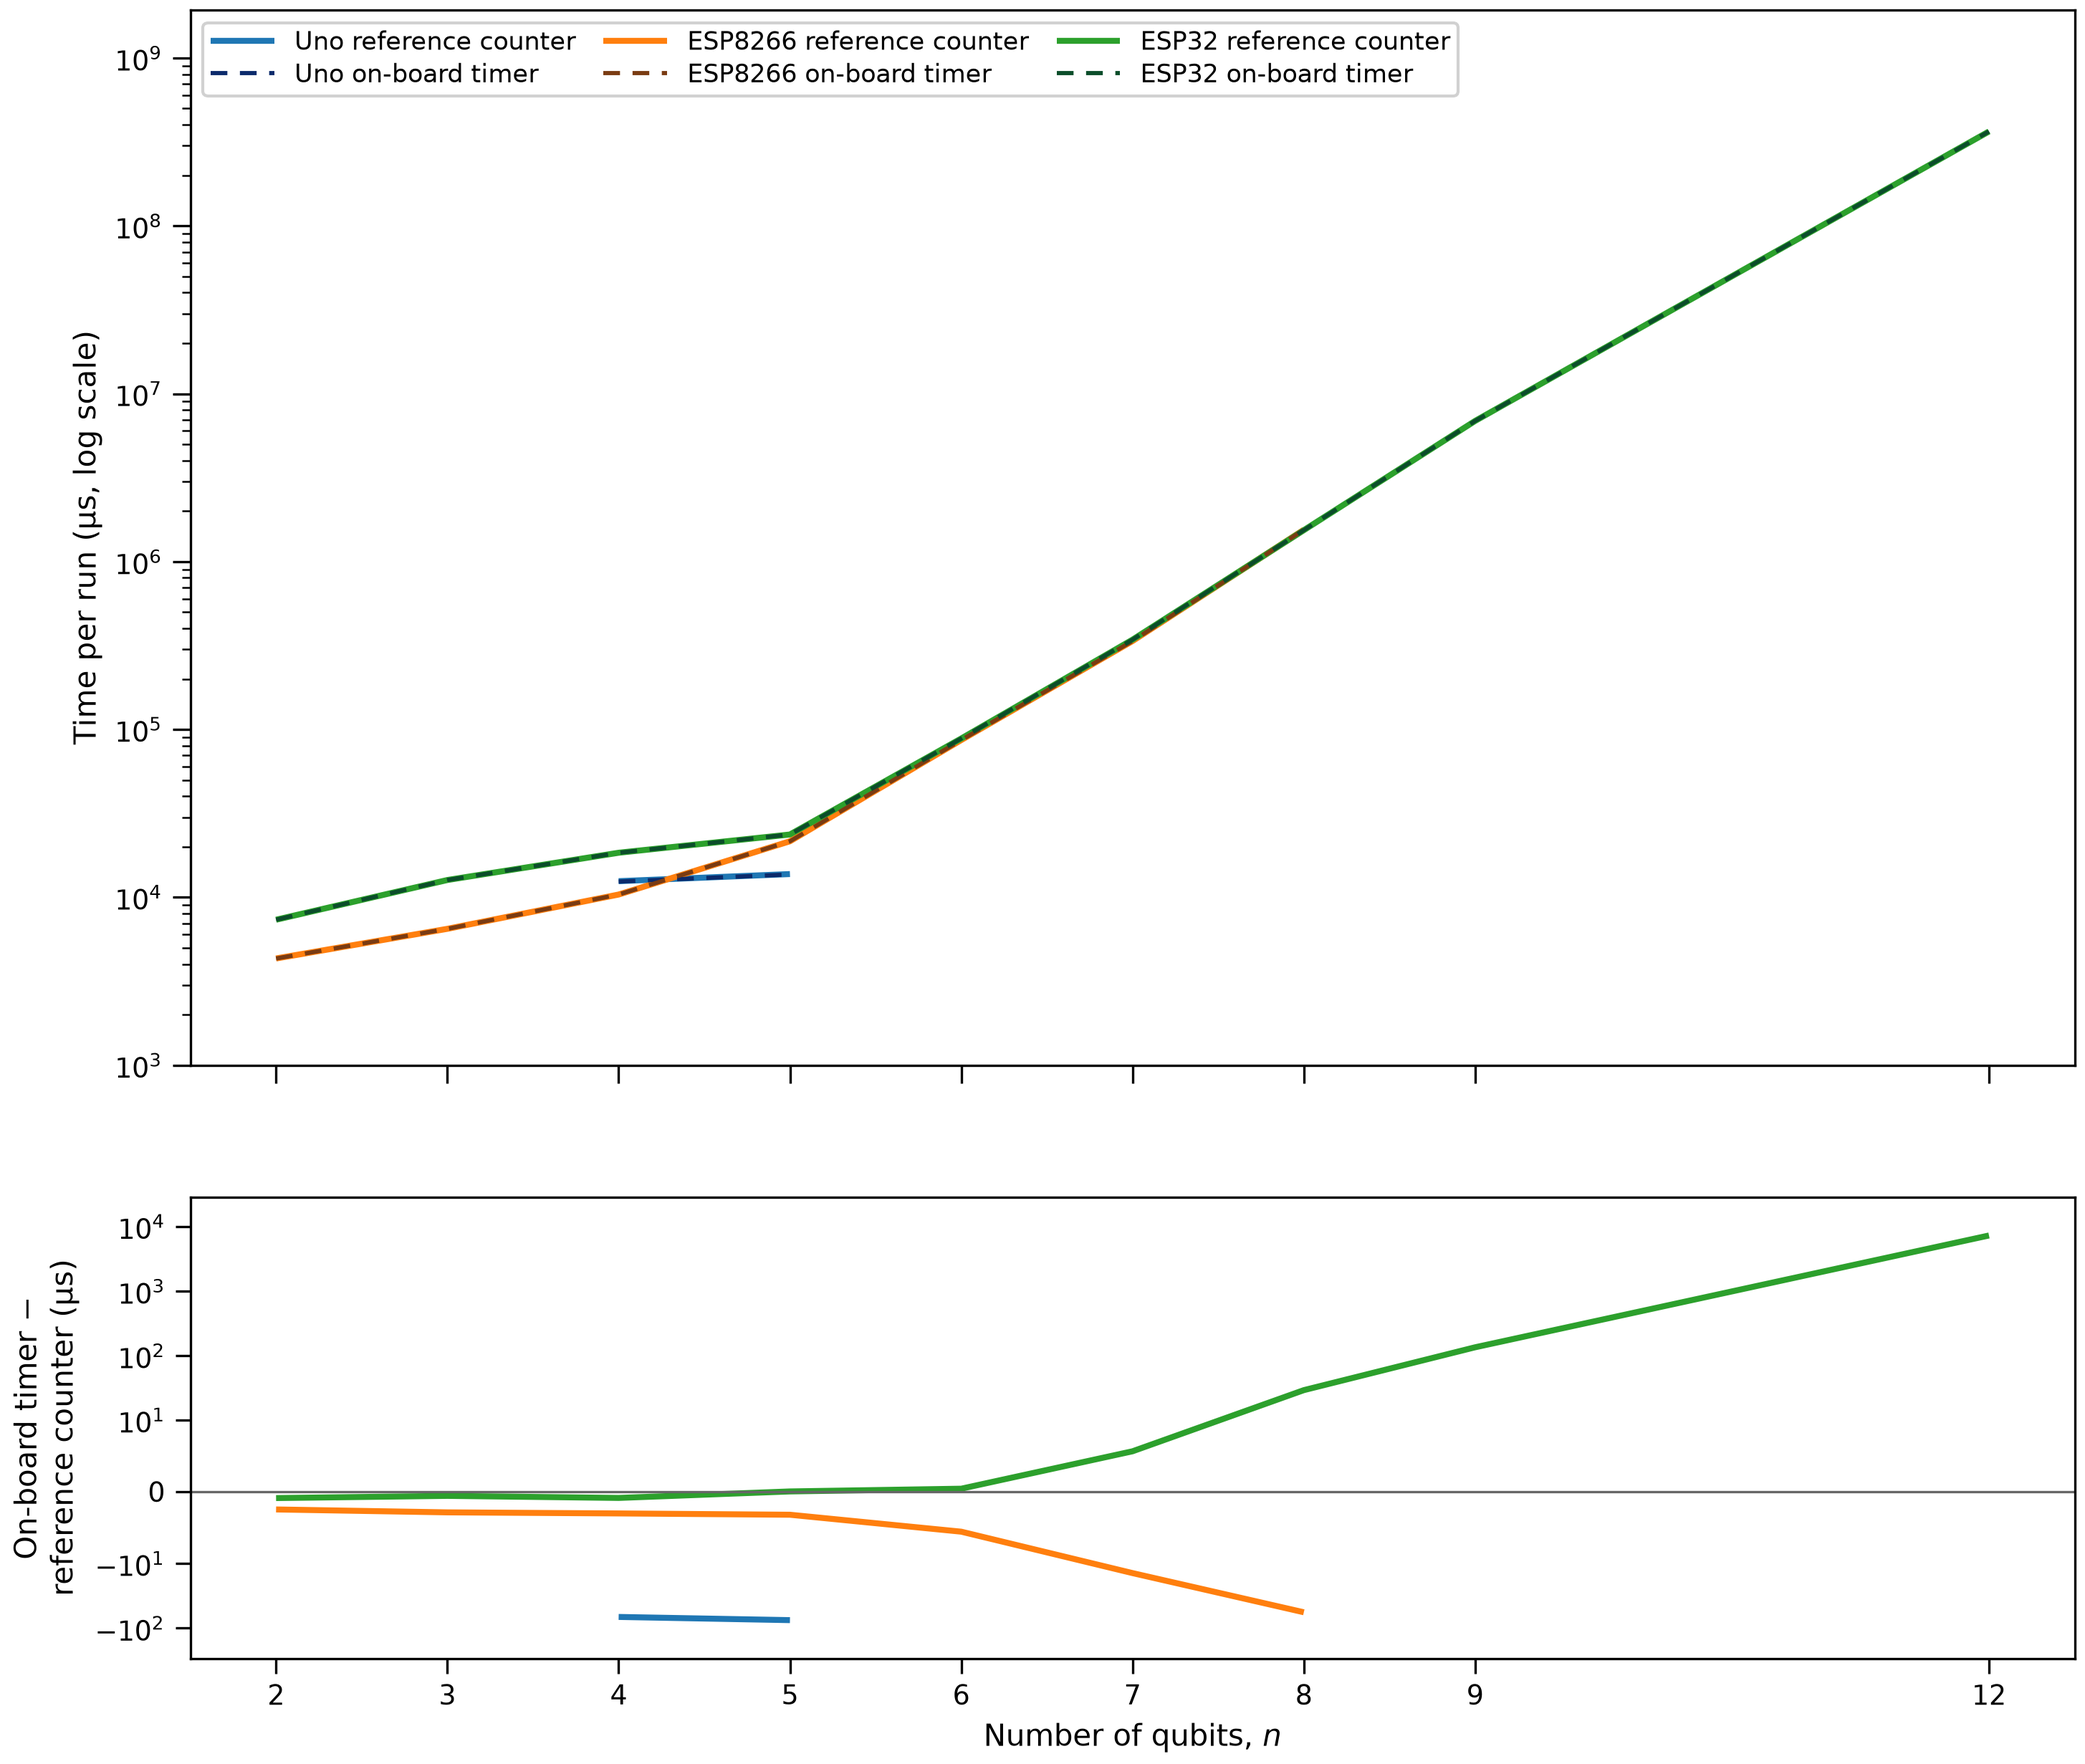
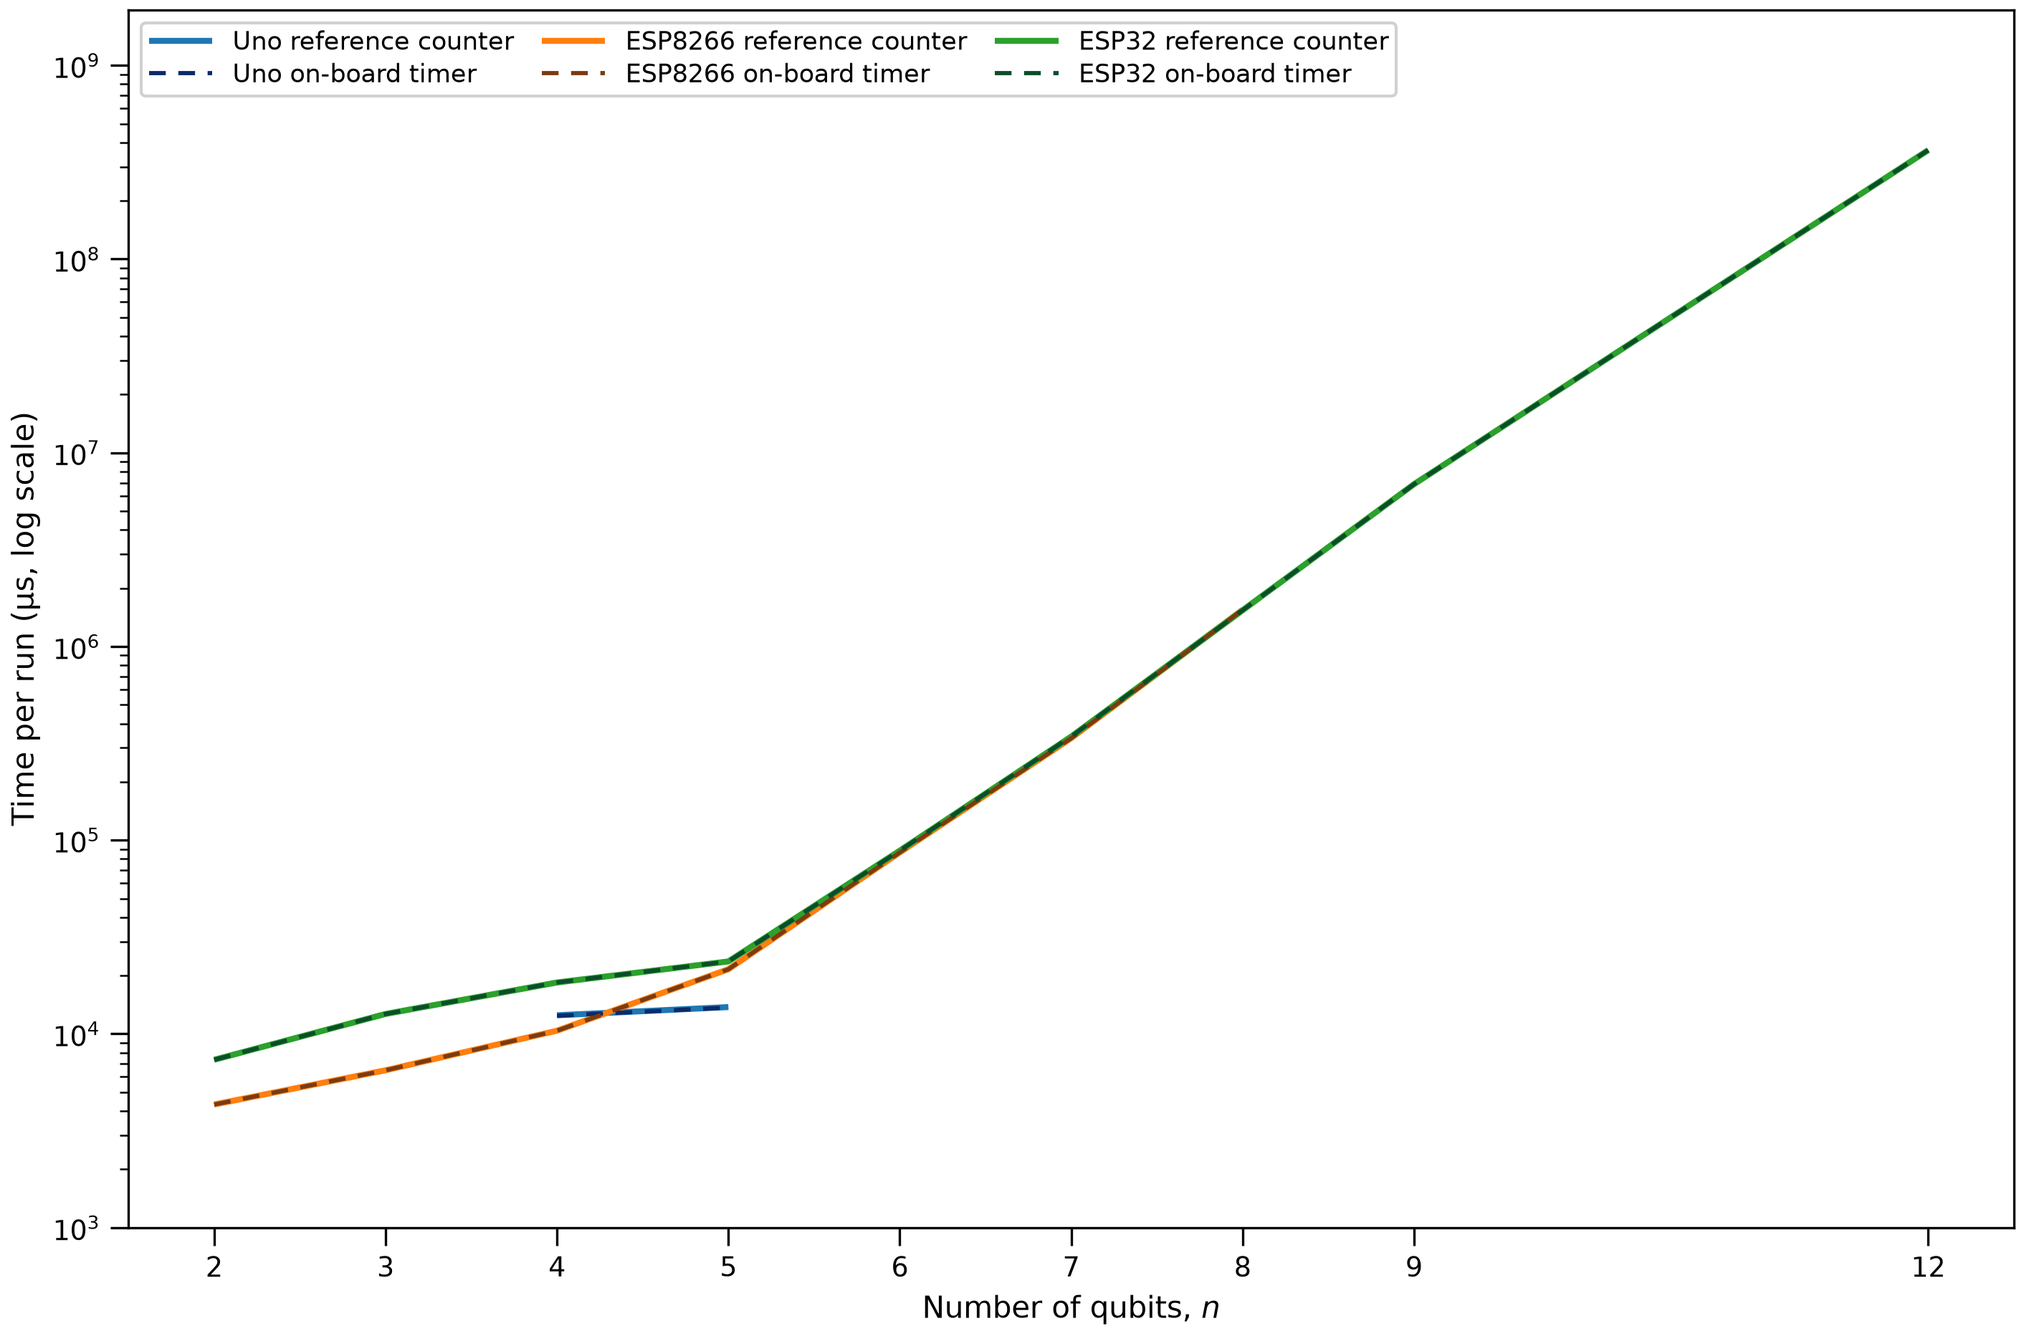
figures: timer_vs_counter charts back to one panel (lower difference panel removed)
Claude-Session: https://claude.ai/code/session_01AE6WdfFceGc968bUQSKnsU

diff --git a/analysis/timer_vs_counter_house_plots.py b/analysis/timer_vs_counter_house_plots.py
@@ -59,23 +59,6 @@ for ph in (2, 3):
         ax.yaxis.set_minor_locator(mticker.LogLocator(base=10, subs=np.arange(2, 10), numticks=60))
         ax.yaxis.set_minor_formatter(mticker.NullFormatter())
         ax.tick_params(axis="y", which="minor", length=3, direction="out")
-        # lower panel: the difference itself, on-board timer minus reference counter (signed, symmetric-log axis: linear within +-10 µs)
-        fig.set_size_inches(9.4, 8.4)
-        pos = ax.get_position()
-        ax.set_position([pos.x0, pos.y0 + 0.36 * pos.height, pos.width, 0.64 * pos.height])
-        ax.set_xlabel("")
-        ax.tick_params(axis="x", labelbottom=False)
-        ax2 = fig.add_axes([pos.x0, pos.y0, pos.width, 0.28 * pos.height], sharex=ax)
-        for gi, bn in enumerate(NAME.values()):
-            gg = g[g.board == {v: k for k, v in NAME.items()}[bn]].sort_values("n")
-            if len(gg):
-                ax2.plot(gg.n, gg.micros_median_us - gg.counter_median_us, color=FAMILIES[gi][0], lw=2.0)
-        ax2.axhline(0, color="0.4", lw=0.8)
-        ax2.set_yscale("symlog", linthresh=10)
-        ax2.margins(y=0.10)
-        ax2.set_xlabel("Number of qubits, $n$")
-        ax2.set_ylabel("On-board timer $-$\nreference counter (µs)")
-        ax2.tick_params(axis="both", direction="out", length=5)
         out = os.path.join(ROOT, "data", "figures", f"phase{ph}", "timer_vs_counter", f"{c}.png")
         os.makedirs(os.path.dirname(out), exist_ok=True)
         save_figure(fig, out)
